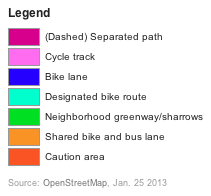
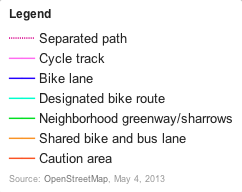
updating legend, style

Changed region(s): [[0.0284, 0.0312, 0.9668, 0.875], [0.0284, 0.9062, 0.7962, 0.9688], [0.9953, 0.0, 1.0, 0.0312]]

diff --git a/supporting_files/legend.html b/supporting_files/legend.html
@@ -1,17 +1,13 @@
 <div class='my-legend'>
 <div class='legend-title'>Legend</div>
-<div class='legend-scale'>
-  <ul class='legend-labels'>
-    <li><span style='background:#d7008c;'></span>(Dashed) Separated path</li>
-    <li><span style='background:#ff6cf0;'></span>Cycle track</li>
-    <li><span style='background:#2500ff;'></span>Bike lane</li>
-    <li><span style='background:#00ffcc;'></span>Designated bike route</li>
-    <li><span style='background:#01df23;'></span>Neighborhood greenway/sharrows</li>
-    <li><span style='background:#f99326;'></span>Shared bike and bus lane</li>
-    <li><span style='background:#fa5324;'></span>Caution area</li>
-  </ul>
-</div>
-<div class='legend-source'>Source: <a href="http://www.openstreetmap.org/copyright">OpenStreetMap</a>, Jan. 25 2013</div>
+    <span style='color:#d7008c;'>┉┉ </span>Separated path<br />
+    <span style='color:#ff6cf0;'>━━ </span>Cycle track<br />
+    <span style='color:#2500ff;'>━━ </span>Bike lane<br />
+    <span style='color:#00ffcc;'>━━ </span>Designated bike route<br />
+    <span style='color:#01df23;'>━━ </span>Neighborhood greenway/sharrows<br />
+    <span style='color:#f99326;'>━━ </span>Shared bike and bus lane<br />
+    <span style='color:#fa5324;'>━━ </span>Caution area<br />
+<div class='legend-source'>Source: <a href="http://www.openstreetmap.org/copyright">OpenStreetMap</a>, May 4, 2013</div>
 </div>
 
 <style type='text/css'>
@@ -20,29 +16,6 @@
     margin-bottom: 5px;
     font-weight: bold;
     font-size: 90%;
-    }
-  .wax-legend .legend-scale ul {
-    margin: 0;
-    margin-bottom: 5px;
-    padding: 0;
-    float: left;
-    list-style: none;
-    }
-  .wax-legend .legend-scale ul li {
-    font-size: 80%;
-    list-style: none;
-    margin-left: 0;
-    line-height: 18px;
-    margin-bottom: 2px;
-    }
-  .wax-legend ul.legend-labels li span {
-    display: block;
-    float: left;
-    height: 16px;
-    width: 30px;
-    margin-right: 5px;
-    margin-left: 0;
-    border: 1px solid #999;
     }
   .wax-legend .legend-source {
     font-size: 70%;
